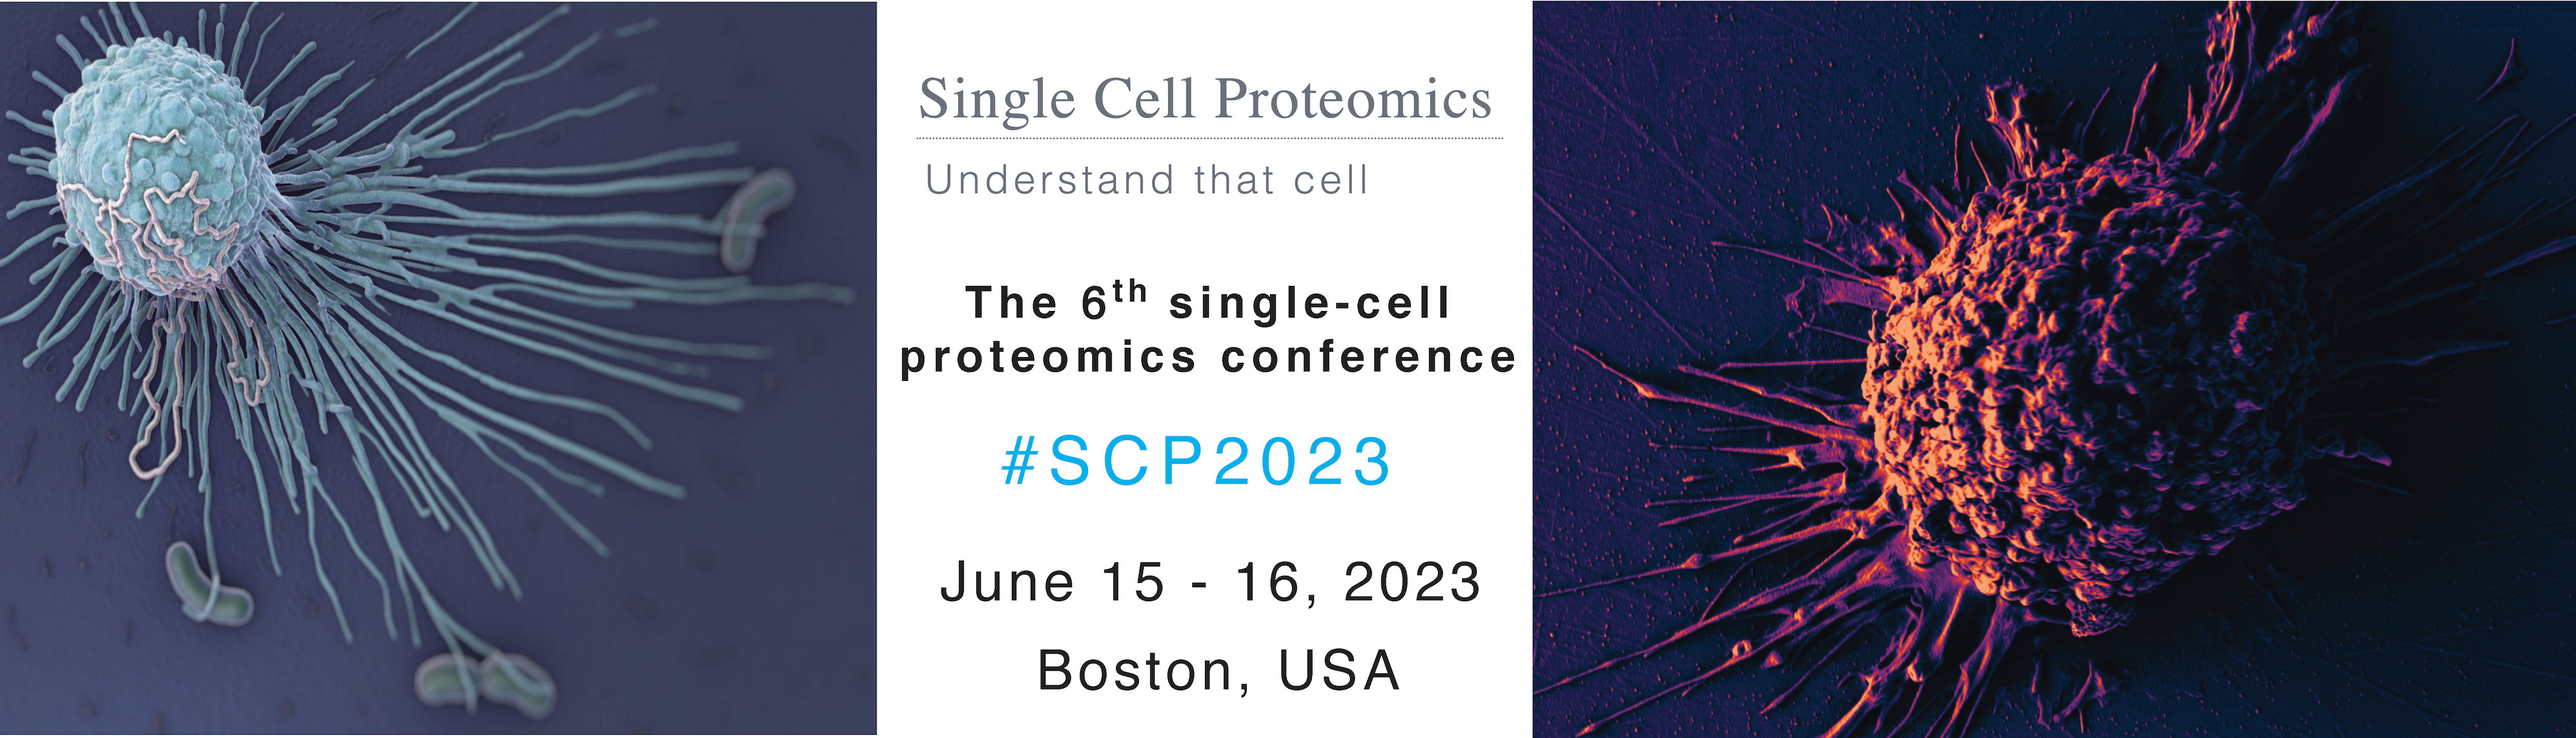
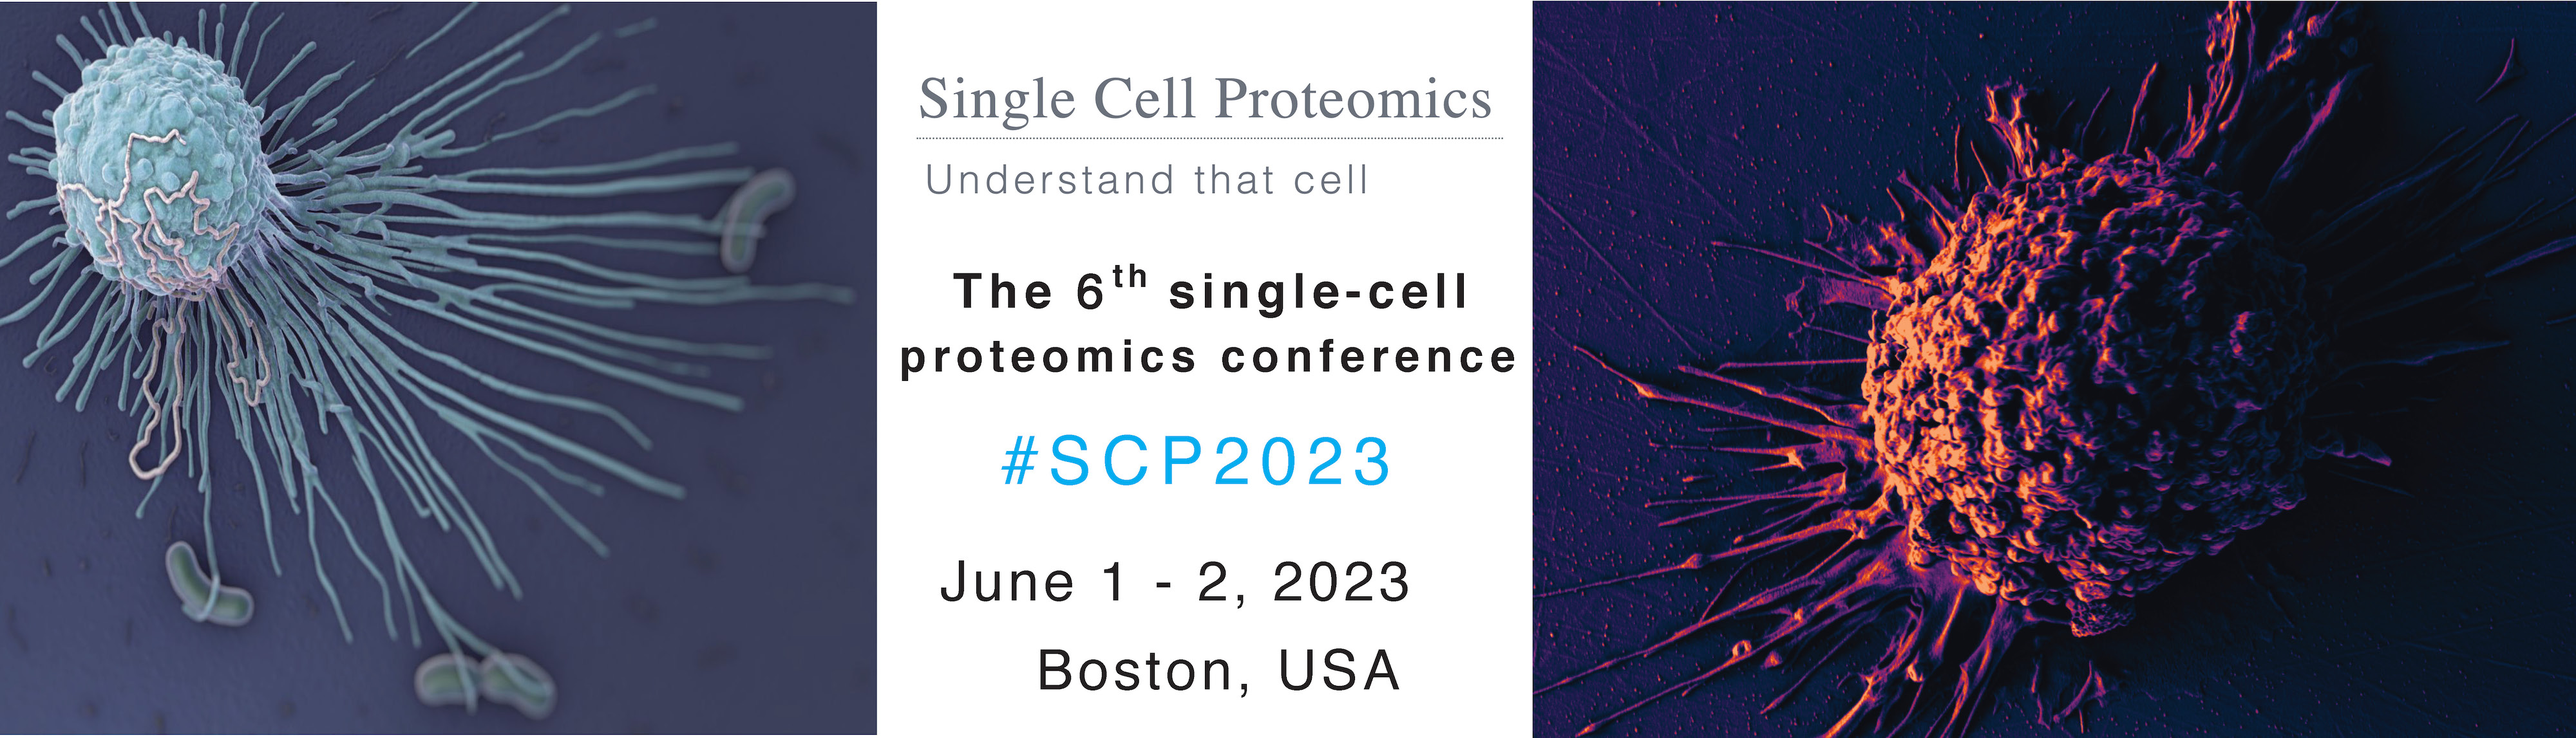
update dates

Changed region(s): [[0.375, 0.3662, 0.5625, 0.4577], [0.4375, 0.7629, 0.5938, 0.8239]]

diff --git a/proteomics/scp2023.md b/proteomics/scp2023.md
@@ -8,7 +8,7 @@ permalink: proteomics/scp2023
 {% include social-media-links.html %}
 
 # SCP2023
-## June 15 - 16,  2023   &nbsp; |  &nbsp;  Boston, USA  
+## June 1 - 2,  2023   &nbsp; |  &nbsp;  Boston, USA  
 
 
 
